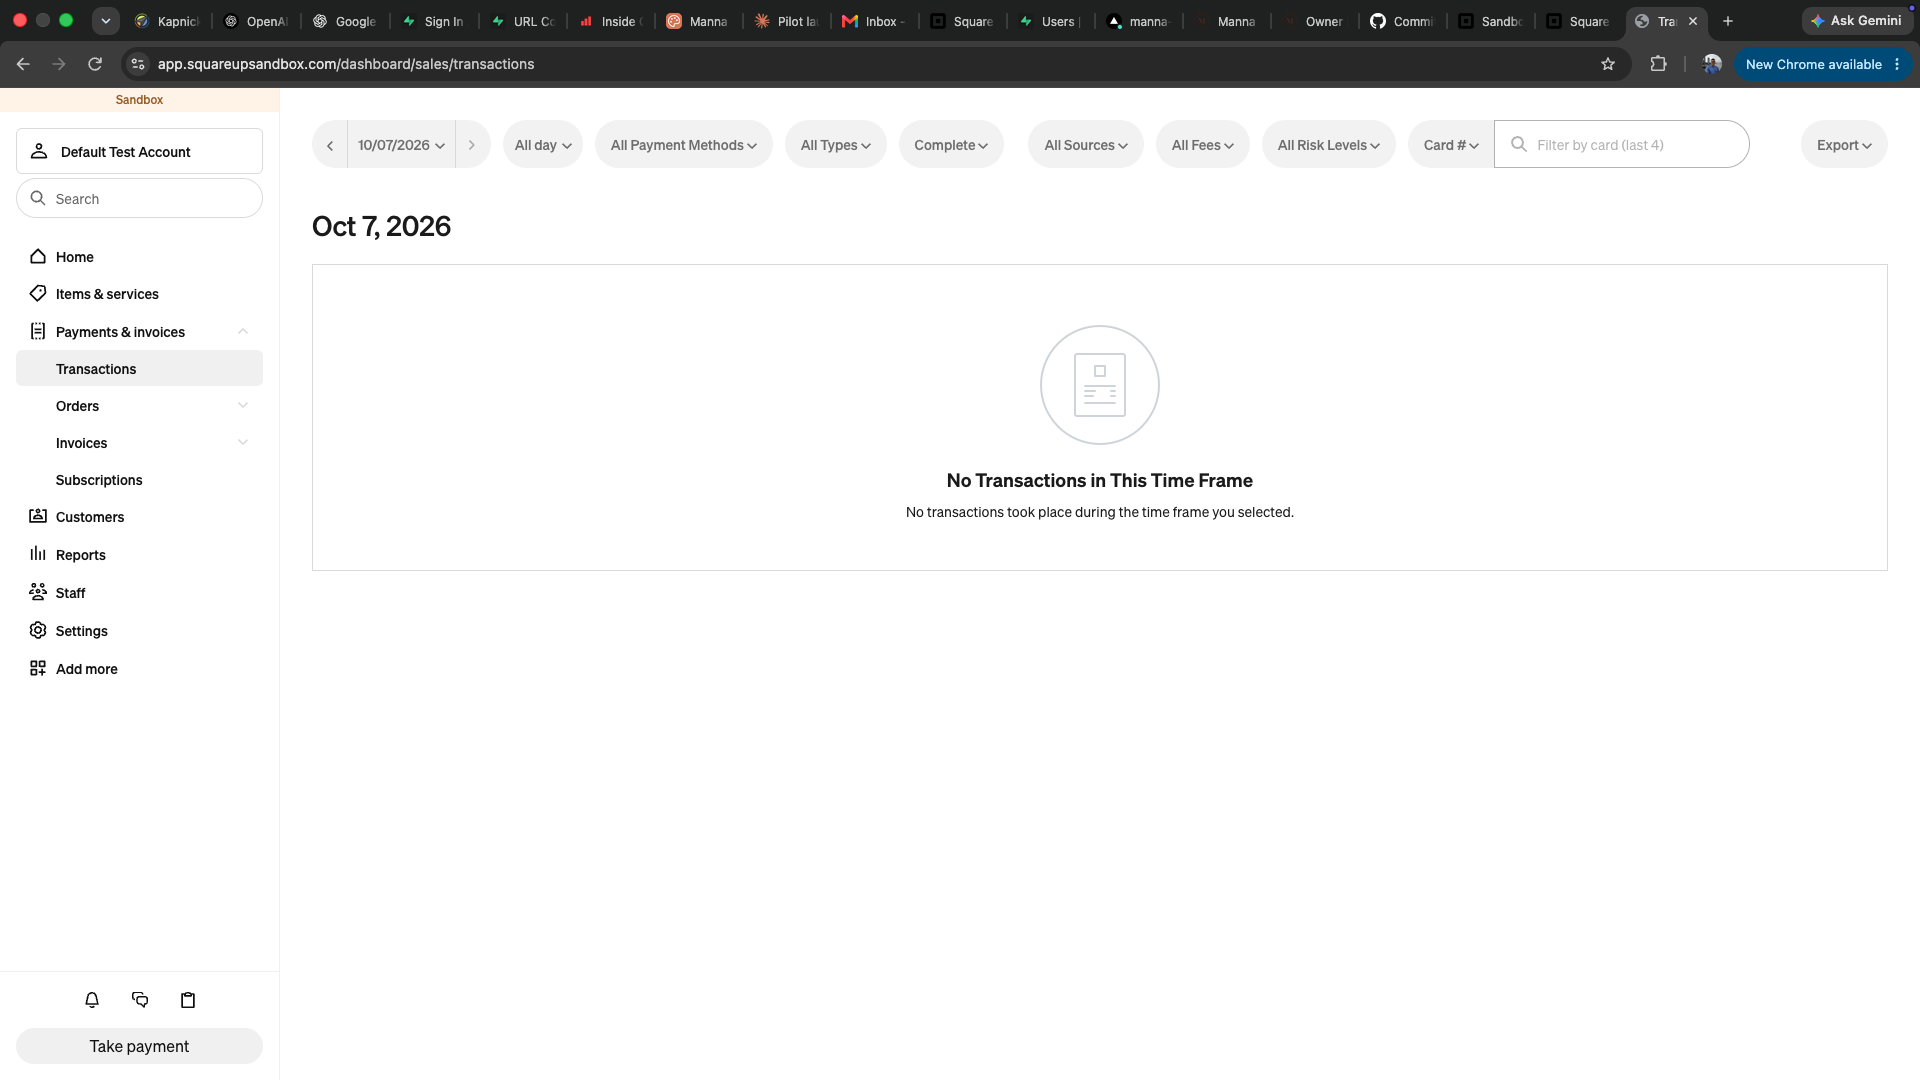
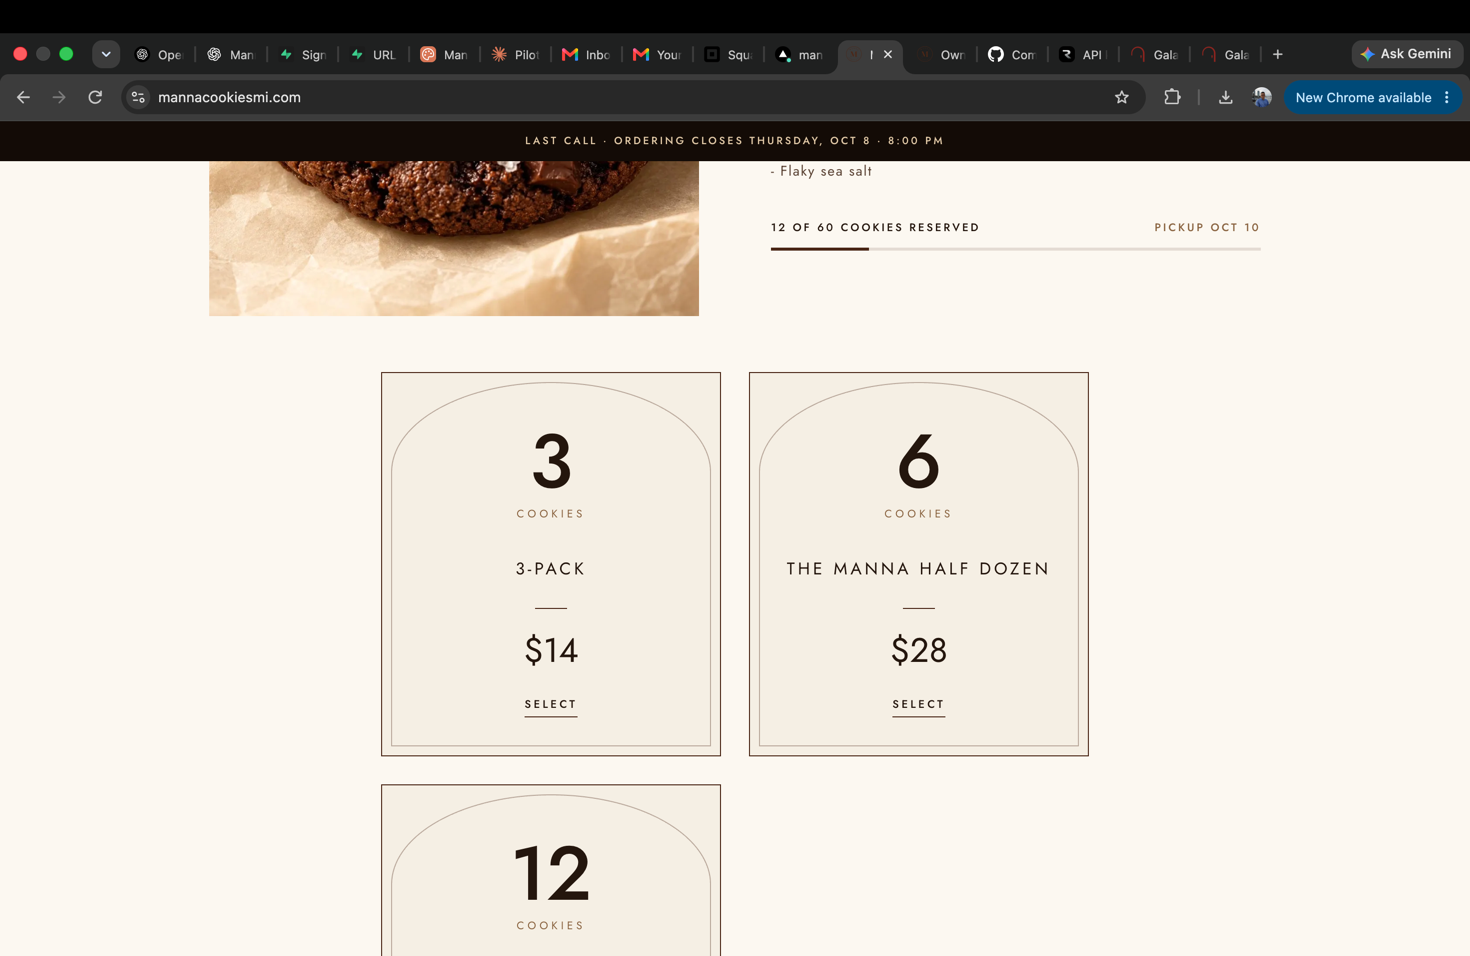
Configurable pickup address (dashboard + email + calendar invite); split-mode package rows; email copy/wrap fixes

diff --git a/lib/email.ts b/lib/email.ts
@@ -18,6 +18,7 @@ export interface OrderEmailInput {
   pickupDateISO: string; // "2026-10-10"
   windowStart: string; // "09:00"
   windowEnd: string; // "11:00"
+  pickupAddress?: string; // owner-configured; empty = "we'll text you"
 }
 
 const escIcs = (t: string) => t.replace(/[\r\n]+/g, " ").replace(/([,;\\])/g, "\\$1");
@@ -46,6 +47,7 @@ function buildIcs(o: OrderEmailInput): string {
     `DTEND:${end}`,
     `SUMMARY:${escIcs(`Pick up your Manna (${o.packageName})`)}`,
     `DESCRIPTION:${escIcs(`Order ${o.orderNumber} · ${o.cookie}`)}`,
+    ...(o.pickupAddress ? [`LOCATION:${escIcs(o.pickupAddress)}`] : []),
     "END:VEVENT",
     "END:VCALENDAR",
   ].join("\r\n");
@@ -57,22 +59,26 @@ function googleCalendarUrl(o: OrderEmailInput): string {
     text: `Pick up your Manna (${o.packageName})`,
     dates: `${utcStamp(o.pickupDateISO, o.windowStart)}/${utcStamp(o.pickupDateISO, o.windowEnd)}`,
     details: `Order ${o.orderNumber} · ${o.cookie}`,
+    ...(o.pickupAddress ? { location: o.pickupAddress } : {}),
   });
   return `https://calendar.google.com/calendar/render?${p.toString()}`;
 }
 
 function orderHtml(o: OrderEmailInput): string {
   const total = `$${(o.totalCents / 100) % 1 === 0 ? o.totalCents / 100 : (o.totalCents / 100).toFixed(2)}`;
+  // one fact per row — long combined values wrap badly in mail clients
   const rows: [string, string][] = [
-    ["Order", `${o.packageName} · ${o.cookie}`],
+    ["Cookie", o.cookie],
+    ["Package", `${o.packageName} (${o.cookieCount} cookies)`],
     ["Order number", o.orderNumber],
     ["Pickup date", o.pickupDateLabel],
     ["Pickup window", o.windowLabel],
+    ...(o.pickupAddress ? ([["Pickup address", o.pickupAddress]] as [string, string][]) : []),
     ["Total paid", total],
   ];
   const firstName = escHtml(o.name.split(" ")[0] || o.name);
-  const addressRow = process.env.PICKUP_ADDRESS
-    ? `<p style="margin:22px auto 0;max-width:380px;font-family:Arial,Helvetica,sans-serif;font-size:14px;line-height:1.65;color:#5A4334;"><strong>Pickup address:</strong><br>${escHtml(process.env.PICKUP_ADDRESS)}</p>`
+  const addressRow = o.pickupAddress
+    ? ""
     : `<p style="margin:22px auto 0;max-width:380px;font-family:Arial,Helvetica,sans-serif;font-size:13px;line-height:1.65;color:#8A7466;">We&rsquo;ll text you the pickup address before your window.</p>`;
 
   return `<!DOCTYPE html>
@@ -96,7 +102,7 @@ function orderHtml(o: OrderEmailInput): string {
           <img src="https://www.mannacookiesmi.com/logo.png" width="88" height="88" alt="Manna Cookies &amp; Co." style="display:block;width:88px;height:88px;border:0;margin:0 auto;">
           <div style="margin-top:26px;font-family:Arial,Helvetica,sans-serif;font-size:11px;letter-spacing:4px;color:#8A6440;text-transform:uppercase;">Order&nbsp;Confirmed</div>
           <h1 style="margin:16px 0 0;font-family:Georgia,'Times New Roman',serif;font-weight:500;font-size:30px;line-height:1.15;color:#24150D;">Your manna is reserved.</h1>
-          <p style="margin:16px auto 0;max-width:400px;font-family:Arial,Helvetica,sans-serif;font-size:15px;line-height:1.65;color:#5A4334;">Thank you, ${firstName} — this week&rsquo;s batch has your name on it.</p>
+          <p style="margin:16px auto 0;max-width:400px;font-family:Arial,Helvetica,sans-serif;font-size:15px;line-height:1.65;color:#5A4334;">Thank you, ${firstName}. See you at pickup.</p>
           <table role="presentation" width="100%" cellpadding="0" cellspacing="0" border="0" style="margin-top:28px;border-top:1px solid #E6DCCB;">
             ${rows
               .map(

diff --git a/components/public/OrderSection.tsx b/components/public/OrderSection.tsx
@@ -187,6 +187,72 @@ export default function OrderSection({
               </div>
               <Desc text={drop.desc} align="left" />
               <AvailBar drop={drop} availSeen={availSeen} align="left" />
+
+              {!unavailable && (
+                <div
+                  style={{ marginTop: 32, maxWidth: 520, display: "flex", flexDirection: "column", gap: 10 }}
+                >
+                  {drop.packages.map((pkg) => {
+                    const disabled = !pkg.available;
+                    return (
+                      <button
+                        key={pkg.kind}
+                        disabled={disabled}
+                        onClick={() => !disabled && onSelect(pkg.kind)}
+                        className={
+                          disabled
+                            ? "cursor-not-allowed"
+                            : "cursor-pointer transition-colors duration-300 hover:border-[#24150D]"
+                        }
+                        style={{
+                          display: "flex",
+                          justifyContent: "space-between",
+                          alignItems: "center",
+                          gap: 12,
+                          minHeight: 68,
+                          padding: "0 18px",
+                          border: "1px solid rgba(74,38,22,.3)",
+                          background: "#FFFFFF",
+                          color: "#24150D",
+                          opacity: disabled ? 0.45 : 1,
+                          textAlign: "left",
+                        }}
+                      >
+                        <span>
+                          <span style={{ display: "block", fontSize: 12, letterSpacing: ".16em", fontWeight: 600 }}>
+                            {pkg.title}
+                          </span>
+                          <span style={{ display: "block", fontSize: 13, color: "#5A4334", marginTop: 3 }}>
+                            {pkg.sub}
+                            {disabled ? " · NOT ENOUGH LEFT" : ""}
+                          </span>
+                        </span>
+                        <span style={{ display: "flex", alignItems: "center", gap: 14, flex: "0 0 auto" }}>
+                          <span className="font-display" style={{ fontSize: 24 }}>
+                            {formatMoney(pkg.priceCents)}
+                          </span>
+                          {!disabled && (
+                            <span
+                              style={{
+                                fontSize: 10,
+                                letterSpacing: ".22em",
+                                fontWeight: 600,
+                                borderBottom: "1px solid #4A2616",
+                                paddingBottom: 3,
+                              }}
+                            >
+                              SELECT
+                            </span>
+                          )}
+                        </span>
+                      </button>
+                    );
+                  })}
+                  <div style={{ marginTop: 10, fontSize: 13, color: "#5A4334" }}>
+                    Pickup only · {drop.pickupDateLabel} · Order by {drop.deadlineLabel}
+                  </div>
+                </div>
+              )}
             </div>
           </div>
         )}
@@ -225,7 +291,7 @@ export default function OrderSection({
           </>
         )}
 
-        {!unavailable && (
+        {!unavailable && !split && (
           <>
             <div
               style={{

diff --git a/components/dashboard/PickupAddressCard.tsx b/components/dashboard/PickupAddressCard.tsx
@@ -1,0 +1,65 @@
+"use client";
+
+import { useState, useTransition } from "react";
+import { savePickupAddress } from "@/app/dashboard/actions";
+import { useToast } from "./Toast";
+
+export default function PickupAddressCard({ initial }: { initial: string }) {
+  const [address, setAddress] = useState(initial);
+  const [pending, start] = useTransition();
+  const toast = useToast();
+  const dirty = address.trim() !== initial.trim();
+
+  return (
+    <div style={{ background: "#FBF8F1", borderRadius: 16, padding: "16px 18px" }}>
+      <div style={{ fontSize: 11, letterSpacing: ".2em", fontWeight: 500, color: "#6E5546" }}>
+        PICKUP ADDRESS
+      </div>
+      <div style={{ marginTop: 4, fontSize: 13, lineHeight: 1.5, color: "#6E5546" }}>
+        Sent in every confirmation email and saved into the customer&apos;s calendar invite.
+        Leave blank to say &ldquo;we&apos;ll text you the address.&rdquo;
+      </div>
+      <div style={{ marginTop: 12, display: "flex", gap: 8, flexWrap: "wrap" }}>
+        <input
+          value={address}
+          onChange={(e) => setAddress(e.target.value)}
+          maxLength={200}
+          placeholder="123 Main St, Grand Rapids, MI"
+          style={{
+            flex: "1 1 240px",
+            height: 48,
+            border: "1px solid rgba(74,38,22,.2)",
+            borderRadius: 10,
+            background: "#FFFFFF",
+            padding: "0 12px",
+            fontSize: 15,
+            color: "#24150D",
+            outline: "none",
+          }}
+        />
+        <button
+          disabled={pending || !dirty}
+          onClick={() =>
+            start(async () => {
+              const res = await savePickupAddress(address);
+              toast(res.ok ? "Pickup address saved" : (res.error ?? "Couldn't save"));
+            })
+          }
+          className="cursor-pointer border-0 disabled:opacity-50"
+          style={{
+            height: 48,
+            padding: "0 22px",
+            borderRadius: 12,
+            background: "#24150D",
+            color: "#F5EFE4",
+            fontSize: 12,
+            letterSpacing: ".16em",
+            fontWeight: 600,
+          }}
+        >
+          {pending ? "SAVING…" : "SAVE"}
+        </button>
+      </div>
+    </div>
+  );
+}

diff --git a/app/dashboard/page.tsx b/app/dashboard/page.tsx
@@ -5,6 +5,7 @@ import { requireOwner } from "@/lib/auth";
 import { getLiveDropView } from "@/lib/live-drop";
 import StatTile from "@/components/dashboard/StatTile";
 import EmptyState from "@/components/dashboard/EmptyState";
+import PickupAddressCard from "@/components/dashboard/PickupAddressCard";
 import OpenCloseCard from "@/components/dashboard/OpenCloseCard";
 import DotGrid from "@/components/dashboard/DotGrid";
 
@@ -53,12 +54,16 @@ export default async function DashboardHome() {
     );
   }
 
-  const { data: orderRows } = await supabase
-    .from("orders")
-    .select("cookie_count, price_cents, paid, status")
-    .eq("drop_id", drop.id)
-    .in("status", ["new", "preparing", "ready", "picked"]);
+  const [{ data: orderRows }, { data: settingsRow }] = await Promise.all([
+    supabase
+      .from("orders")
+      .select("cookie_count, price_cents, paid, status")
+      .eq("drop_id", drop.id)
+      .in("status", ["new", "preparing", "ready", "picked"]),
+    supabase.from("app_settings").select("value").eq("key", "pickup_address").maybeSingle(),
+  ]);
   const orders = orderRows ?? [];
+  const pickupAddress = settingsRow?.value ?? "";
 
   const cookiesOrdered = orders.reduce((s, o) => s + o.cookie_count, 0);
   const revenueCents = orders.filter((o) => o.paid).reduce((s, o) => s + o.price_cents, 0);
@@ -132,6 +137,8 @@ export default async function DashboardHome() {
           </Link>
         ))}
       </div>
+
+      <PickupAddressCard initial={pickupAddress} />
 
       <Link
         href="/dashboard/whats-next"

diff --git a/app/dashboard/actions.ts b/app/dashboard/actions.ts
@@ -388,3 +388,23 @@ export async function removeDropPhoto(dropId: string): Promise<ActionResult> {
   revalidateDashboard();
   return { ok: true };
 }
+
+/* ---------------- settings ---------------- */
+
+export async function savePickupAddress(address: string): Promise<ActionResult> {
+  let supabase;
+  try {
+    ({ supabase } = await requireOwner());
+  } catch {
+    return fail("Not signed in.");
+  }
+  const parsed = z.string().trim().max(200).safeParse(address);
+  if (!parsed.success) return fail("Keep the address under 200 characters.");
+
+  const { error } = await supabase
+    .from("app_settings")
+    .upsert({ key: "pickup_address", value: parsed.data, updated_at: new Date().toISOString() });
+  if (error) return fail("Couldn't save the address.");
+  revalidateDashboard();
+  return { ok: true };
+}

diff --git a/app/api/checkout/route.ts b/app/api/checkout/route.ts
@@ -337,7 +337,13 @@ export async function POST(req: Request) {
     if (checkoutCtx.dropRow && checkoutCtx.winRow) {
       const starts = checkoutCtx.winRow.starts.slice(0, 5);
       const ends = checkoutCtx.winRow.ends.slice(0, 5);
+      const { data: addr } = await db
+        .from("app_settings")
+        .select("value")
+        .eq("key", "pickup_address")
+        .maybeSingle();
       await sendOrderConfirmation({
+        pickupAddress: addr?.value?.trim() || undefined,
         to: input.email.toLowerCase(),
         name: input.name,
         orderNumber,
